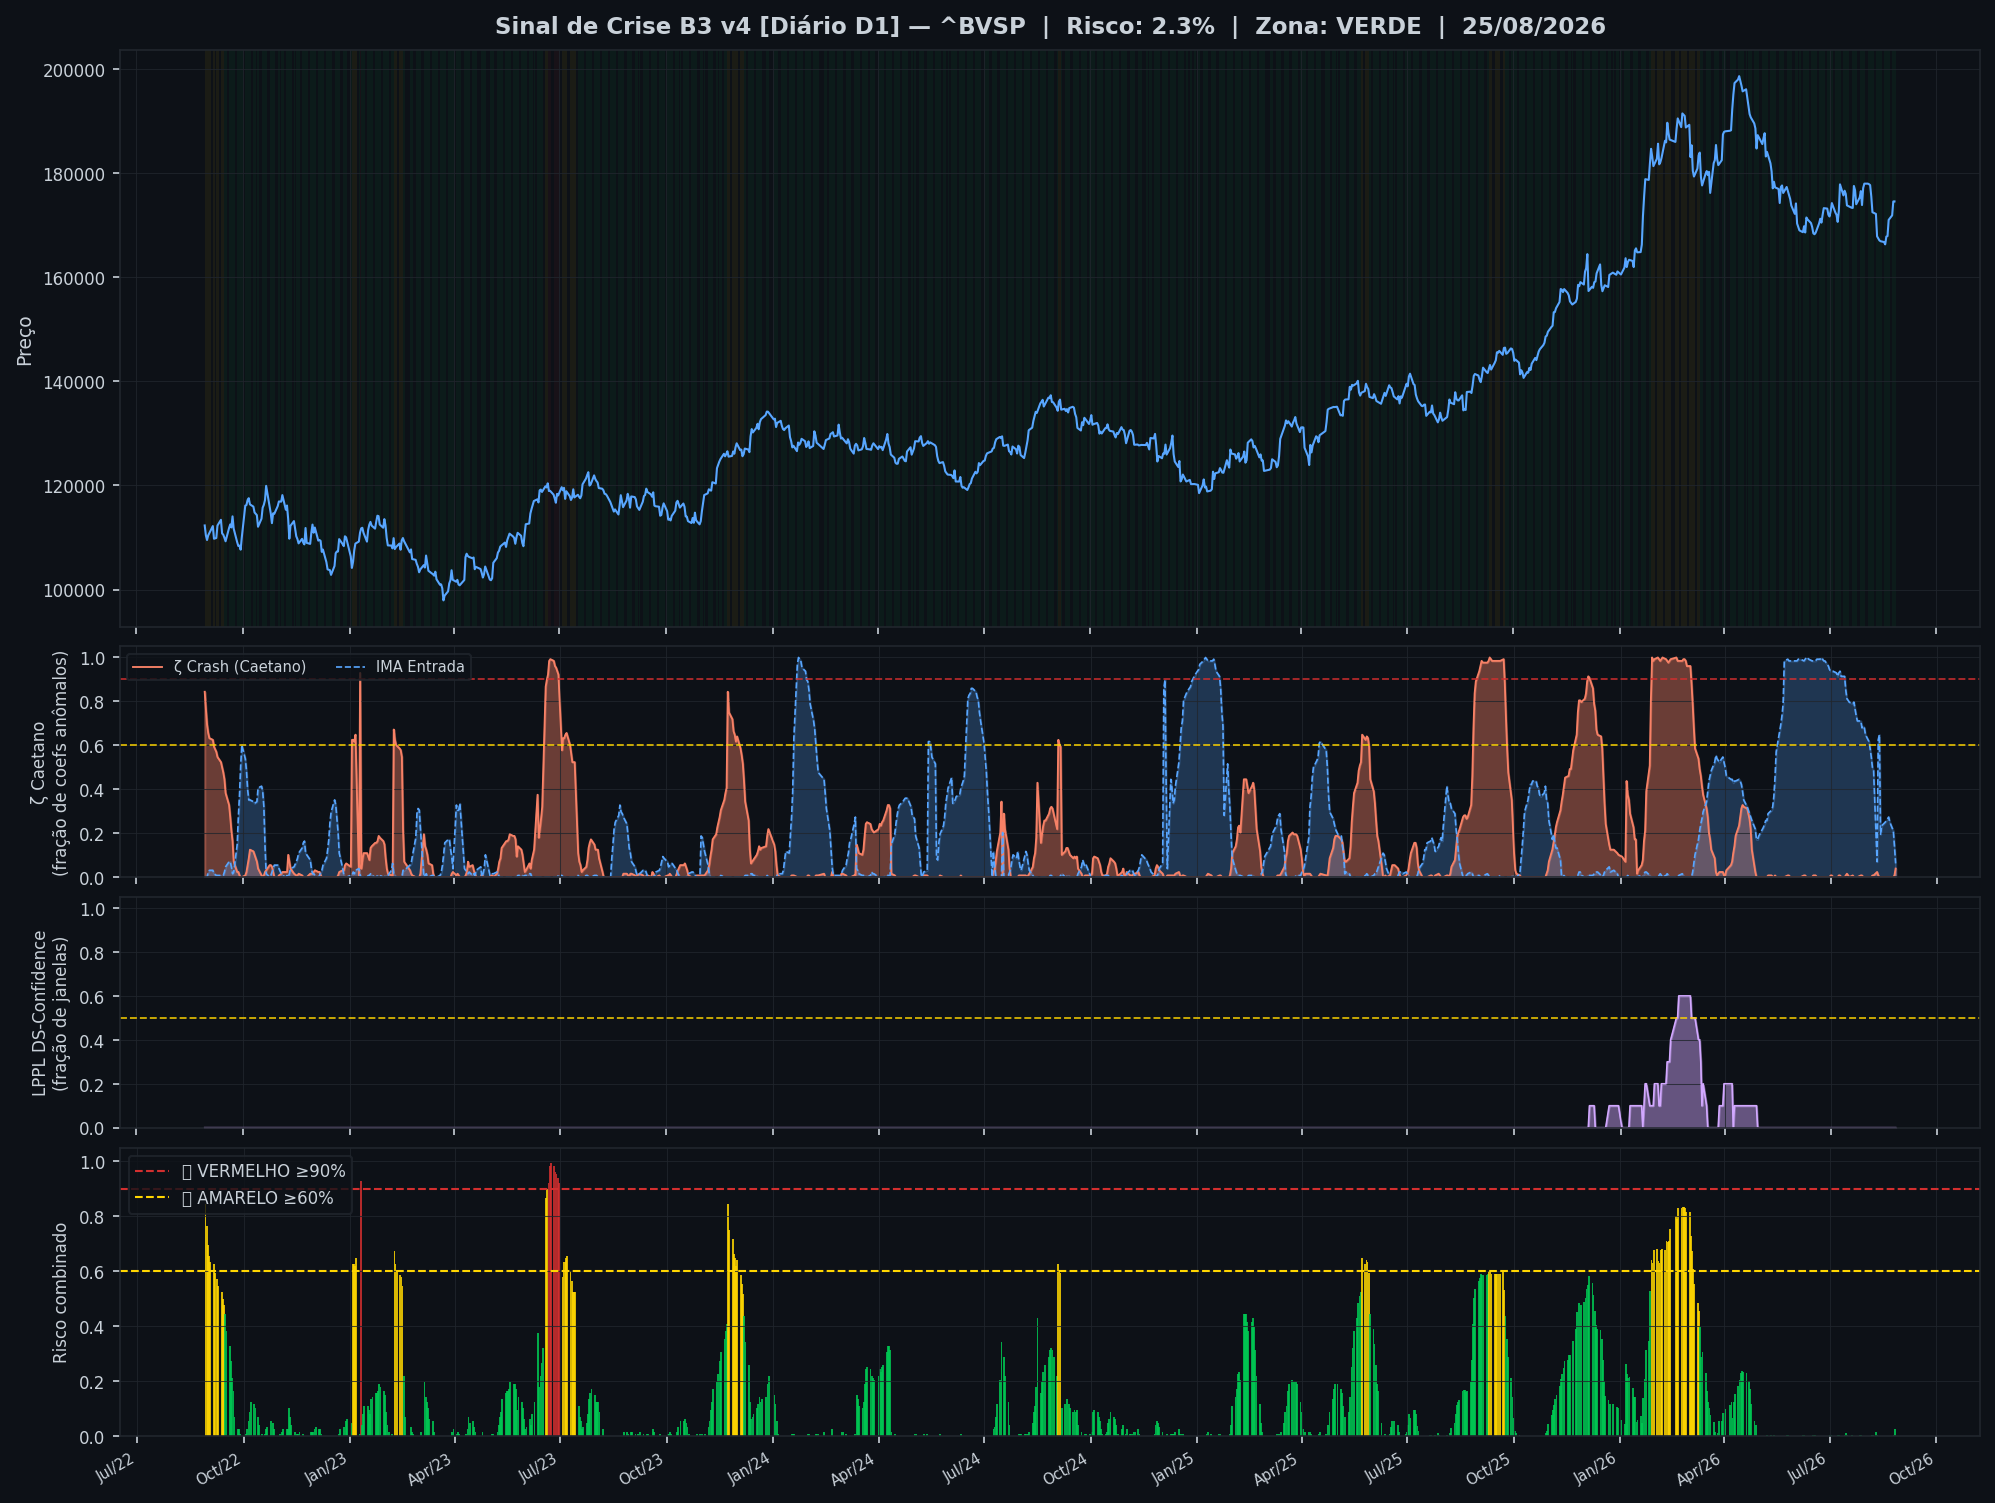
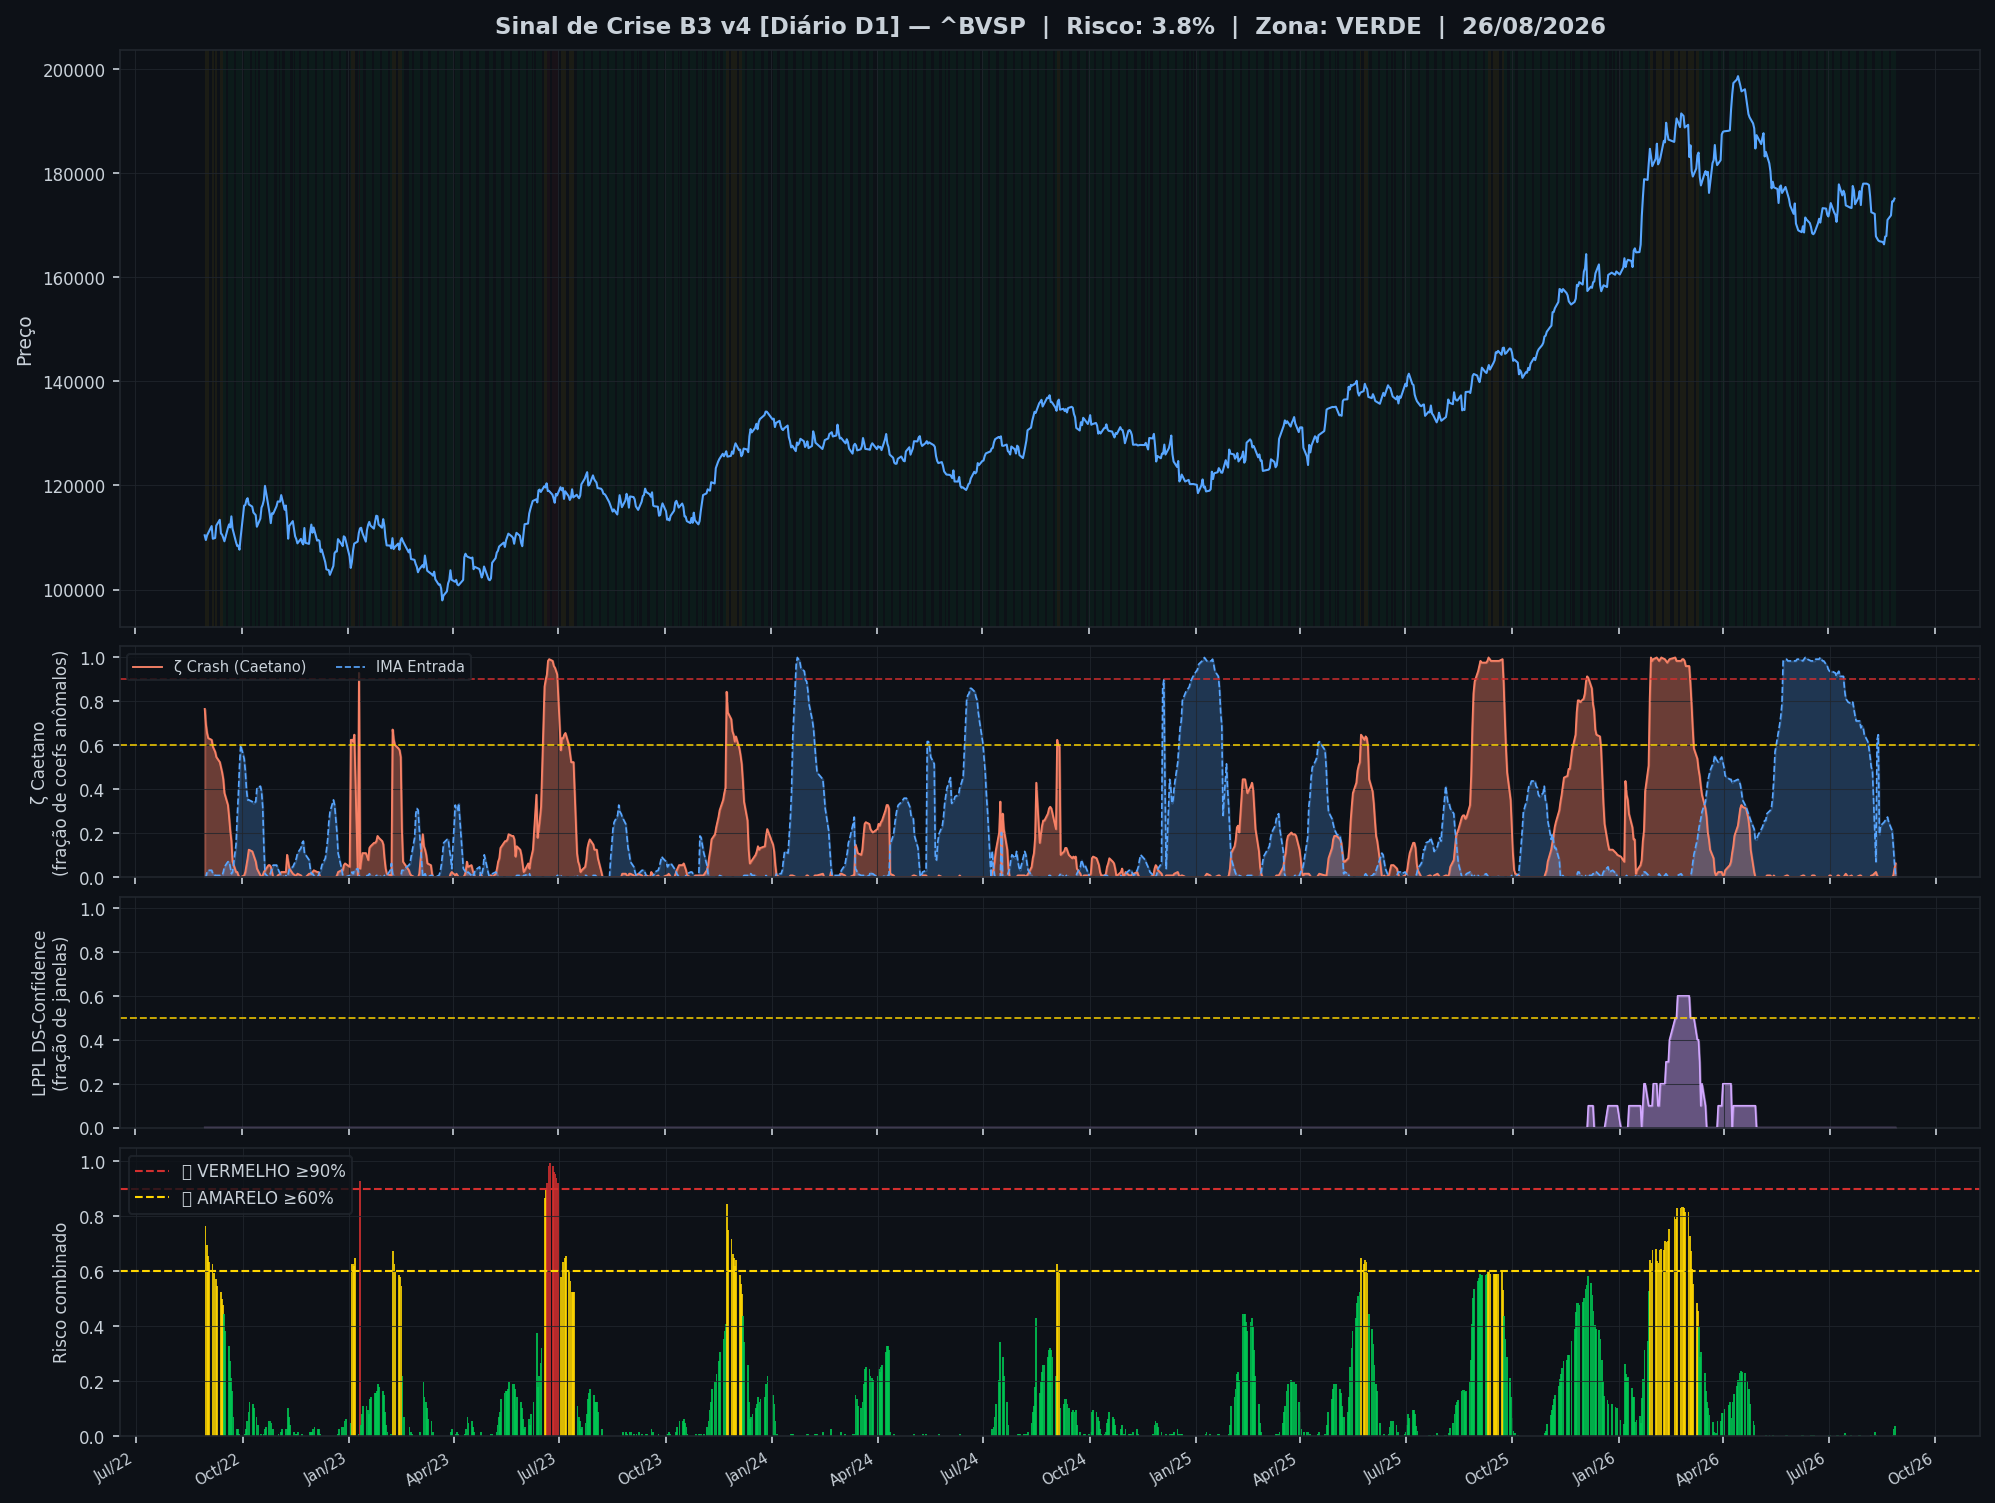
🤖 Auto: Sinal 27/08/2026 19:00

diff --git a/content/diario/2026-08-26.md b/content/diario/2026-08-26.md
@@ -1,0 +1,105 @@
+---
+title: "🟢 Diário 26/08/2026 — VERDE"
+date: 2026-08-27
+tags: [diario]
+---
+
+> [!success] 🟢 **VERDE** — Risco 4% · ▲ +1 p.p. vs leitura anterior
+> `█░░░░░░░░░░░░░░░░░░░`
+> Mercado sem sinais relevantes de estresse.
+
+
+| Indicador | Valor |
+|---|---|
+| 🔴 ζ Crash — severidade da queda em curso | **6%** |
+| 🔵 ζ Entrada — estrutura de fundo | 1% |
+| 🫧 LPPL DS-Confidence | 0% |
+| 📊 Ibovespa | 175.135 pts |
+
+![Gráfico do sinal](../graficos/sinal_diario.png)
+
+## Últimos 30 pregões
+
+| Data | Zona | Risco | IMA Crash | Entrada | LPPL |
+|---|---|---|---|---|---|
+| 2026-08-26 21:00 | 🟢 VERDE | **4%** | 6% | 1% | 0% |
+| 2026-08-25 21:00 | 🟢 VERDE | **2%** | 4% | 6% | 0% |
+| 2026-08-24 21:00 | 🟢 VERDE | **0%** | 1% | 14% | 0% |
+| 2026-08-23 21:00 | 🟢 VERDE | **0%** | 0% | 21% | 0% |
+| 2026-08-20 21:00 | 🟢 VERDE | **0%** | 0% | 25% | 0% |
+| 2026-08-19 21:00 | 🟢 VERDE | **0%** | 0% | 27% | 0% |
+| 2026-08-18 21:00 | 🟢 VERDE | **0%** | 0% | 27% | 0% |
+| 2026-08-17 21:00 | 🟢 VERDE | **0%** | 0% | 26% | 0% |
+| 2026-08-16 21:00 | 🟢 VERDE | **0%** | 0% | 25% | 0% |
+| 2026-08-13 21:00 | 🟢 VERDE | **0%** | 0% | 23% | 0% |
+| 2026-08-12 21:00 | 🟢 VERDE | **0%** | 0% | 20% | 0% |
+| 2026-08-11 21:00 | 🟢 VERDE | **0%** | 0% | 65% | 0% |
+| 2026-08-10 21:00 | 🟢 VERDE | **0%** | 1% | 62% | 0% |
+| 2026-08-09 21:00 | 🟢 VERDE | **1%** | 2% | 7% | 0% |
+| 2026-08-06 21:00 | 🟢 VERDE | **0%** | 1% | 48% | 0% |
+| 2026-08-05 21:00 | 🟢 VERDE | **0%** | 1% | 50% | 0% |
+| 2026-08-04 21:00 | 🟢 VERDE | **0%** | 0% | 55% | 0% |
+| 2026-08-03 21:00 | 🟢 VERDE | **0%** | 0% | 59% | 0% |
+| 2026-08-02 21:00 | 🟢 VERDE | **0%** | 0% | 62% | 0% |
+| 2026-07-30 21:00 | 🟢 VERDE | **0%** | 0% | 65% | 0% |
+| 2026-07-29 21:00 | 🟢 VERDE | **0%** | 0% | 68% | 0% |
+| 2026-07-28 21:00 | 🟢 VERDE | **0%** | 0% | 69% | 0% |
+| 2026-07-27 21:00 | 🟢 VERDE | **0%** | 1% | 68% | 0% |
+| 2026-07-26 21:00 | 🟢 VERDE | **0%** | 1% | 71% | 0% |
+| 2026-07-23 21:00 | 🟢 VERDE | **0%** | 0% | 71% | 0% |
+| 2026-07-22 21:00 | 🟢 VERDE | **0%** | 0% | 73% | 0% |
+| 2026-07-21 21:00 | 🟢 VERDE | **0%** | 0% | 77% | 0% |
+| 2026-07-20 21:00 | 🟢 VERDE | **0%** | 0% | 80% | 0% |
+| 2026-07-19 21:00 | 🟢 VERDE | **0%** | 1% | 79% | 0% |
+| 2026-07-16 21:00 | 🟢 VERDE | **0%** | 0% | 80% | 0% |
+
+## Monitor Multi-Ativo
+
+**0% dos ativos em tensão** (0🔴 0🟡) — quanto mais ativos disparam juntos, mais confiável o sinal.
+
+| Zona | Ativo | Setor | IMA Crash | IMA Entrada |
+|---|---|---|---|---|
+| 🟢 | **VALE** | Mineração | 0.0% | 20.3% |
+| 🟢 | **ITAUUNIBANCO** | Financeiro | 0.0% | 20.3% |
+| 🟢 | **PETROBRAS** | Petróleo | 0.0% | 20.3% |
+| 🟢 | **AXIA ENERGIA** | Energia | 0.0% | 20.3% |
+| 🟢 | **PETROBRAS** | Petróleo | 0.0% | 20.3% |
+| 🟢 | **BRADESCO** | Financeiro | 0.0% | 20.3% |
+| 🟢 | **B3** | Financeiro | 0.0% | 20.3% |
+| 🟢 | **ITAUSA** | Financeiro | 0.0% | 20.3% |
+| 🟢 | **WEG** | Industrial | 0.0% | 20.3% |
+| 🟢 | **SABESP** | Saneamento | 0.0% | 20.3% |
+| 🟢 | **EMBRAER** | Outros | 0.0% | 20.3% |
+| 🟢 | **AMBEV S/A** | Consumo | 0.0% | 20.3% |
+| 🟢 | **BTGP BANCO** | Financeiro | 0.0% | 20.3% |
+| 🟢 | **BRASIL** | Financeiro | 0.0% | 20.3% |
+| 🟢 | **ENEVA** | Energia | 0.0% | 20.3% |
+| 🟢 | **PRIO** | Petróleo | 0.0% | 20.3% |
+| 🟢 | **EQUATORIAL** | Energia | 0.0% | 20.3% |
+| 🟢 | **COPEL** | Energia | 0.0% | 20.3% |
+| 🟢 | **VIBRA** | Energia | 0.0% | 20.3% |
+| 🟢 | **REDE D OR** | Saúde | 0.0% | 20.3% |
+| 🟢 | **ULTRAPAR** | Outros | 0.0% | 20.3% |
+| 🟢 | **LOCALIZA** | Aluguel | 0.0% | 20.3% |
+| 🟢 | **GERDAU** | Siderurgia | 0.0% | 20.3% |
+| 🟢 | **SUZANO S.A.** | Papel/Celulose | 0.0% | 20.3% |
+| 🟢 | **RAIADROGASIL** | Outros | 0.0% | 20.3% |
+| 🟢 | **BBSEGURIDADE** | Financeiro | 0.0% | 20.3% |
+| 🟢 | **USD/BRL** | Câmbio | 0.0% | 28.9% |
+
+![Monitor multi-ativo](../graficos/multi_diario.png)
+
+*Página atualizada em 27/08/2026 19:00 BRT (leitura da barra de 2026-08-26 BRT).*
+
+> [!info]- Como interpretar (clique para expandir)
+> - **ζ Crash**: fração dos coeficientes wavelet acima do corte (Caetano & Yoneyama 2009). Escala absoluta: ζ=0,90 = 90% dos coeficientes anômalos — historicamente, quedas com ζ≥0,90 foram mais fundas e mais longas. **Mede a severidade do movimento em curso, não prevê o início da queda.**
+> - **ζ Entrada**: coeficientes negativos além do corte — estrutura de fundo, possível região de compra.
+> - **LPPL DS-Confidence**: fração de janelas (60–504 pregões) em que o modelo de bolha de Sornette produz um ajuste válido. 30% já é relevante; acima de 50% é forte evidência de estrutura de bolha.
+> - **Zonas com histerese**: o sinal só muda de zona ao cruzar o limiar de entrada, e só volta ao cruzar o de saída — evita flip-flop diário.
+
+
+---
+*Sinal de Crise B3 v4 · IMA Wavelet ([Caetano & Yoneyama, Physica-A 2007](https://doi.org/10.1016/j.physa.2007.03.054)) + LPPL DS-Confidence (Sornette, ETH-Zurich) · [Metodologia](metodologia) · [Histórico](historico)*
+
+> [!quote]- Aviso
+> Estudo acadêmico. Não constitui recomendação de investimento.

diff --git a/content/index.md b/content/index.md
@@ -8,19 +8,19 @@ tags: [home]
 
 Monitoramento diário e intraday do Ibovespa — **IMA Wavelet** (Prof. Marco Antonio Leonel Caetano, ITA/INSPER) + **LPPL DS-Confidence** (Prof. Didier Sornette, ETH-Zurich).
 
-*Última atualização: 27/08/2026 17:30 BRT · ^BVSP · Intraday 15min · v4*
+*Última atualização: 27/08/2026 19:00 BRT · ^BVSP · Diário D1 · v4*
 
-> [!success] 🟢 **VERDE** — Risco 0% · ＝ +0 p.p. vs leitura anterior
-> `░░░░░░░░░░░░░░░░░░░░`
+> [!success] 🟢 **VERDE** — Risco 4% · ▲ +1 p.p. vs leitura anterior
+> `█░░░░░░░░░░░░░░░░░░░`
 > Mercado sem sinais relevantes de estresse.
 
 
 | Indicador | Valor |
 |---|---|
-| 🔴 ζ Crash — severidade da queda em curso | **0%** |
-| 🔵 ζ Entrada — estrutura de fundo | 0% |
+| 🔴 ζ Crash — severidade da queda em curso | **6%** |
+| 🔵 ζ Entrada — estrutura de fundo | 1% |
 | 🫧 LPPL DS-Confidence | 0% |
-| 📊 Ibovespa | 175.329 pts |
+| 📊 Ibovespa | 175.135 pts |
 
 **Multi-ativo:** 0% em tensão (0🔴 0🟡 de 27 ativos)
 
@@ -32,8 +32,13 @@ Monitoramento diário e intraday do Ibovespa — **IMA Wavelet** (Prof. Marco An
 
 | Data | Zona | Risco | IMA | LPPL |
 |---|---|---|---|---|
-| [27 Aug 2026](diario/2026-08-27) | 🟢 VERDE | **0%** | 0% | 0% |
-| [26 Aug 2026](diario/2026-08-26) | 🟢 VERDE | **1%** | 1% | 0% |
+| [26 Aug 2026](diario/2026-08-26) | 🟢 VERDE | **4%** | 6% | 0% |
+| [25 Aug 2026](diario/2026-08-25) | 🟢 VERDE | **2%** | 4% | 0% |
+| [24 Aug 2026](diario/2026-08-24) | 🟢 VERDE | **0%** | 1% | 0% |
+| [23 Aug 2026](diario/2026-08-23) | 🟢 VERDE | **0%** | 0% | 0% |
+| [20 Aug 2026](diario/2026-08-20) | 🟢 VERDE | **0%** | 0% | 0% |
+| [19 Aug 2026](diario/2026-08-19) | 🟢 VERDE | **0%** | 0% | 0% |
+| [18 Aug 2026](diario/2026-08-18) | 🟢 VERDE | **0%** | 0% | 0% |
 
 ## Navegação
 

diff --git a/content/historico.md b/content/historico.md
@@ -7,6 +7,7 @@ tags: [historico]
 
 | Data | Modo | Zona | Risco | IMA | LPPL |
 |---|---|---|---|---|---|
+| 2026-08-26 | diario | 🟢 VERDE | 4% | 6% | 0% |
 | 2026-08-27 16:45 | intraday | 🟢 VERDE | 0% | 0% | 0% |
 | 2026-08-27 16:30 | intraday | 🟢 VERDE | 0% | 0% | 0% |
 | 2026-08-27 16:15 | intraday | 🟢 VERDE | 0% | 0% | 0% |
